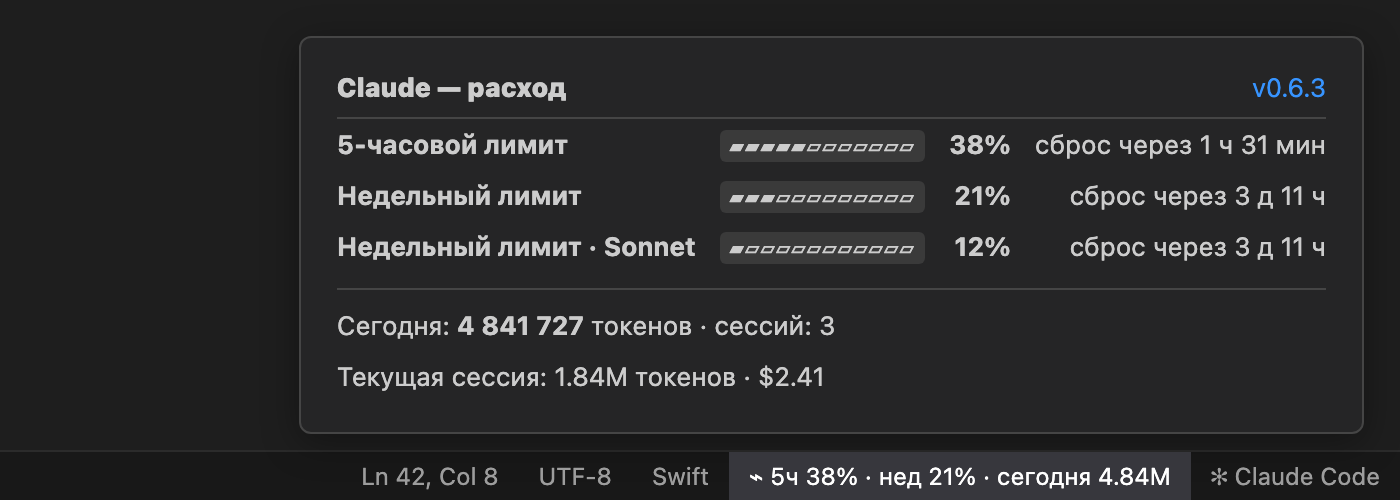
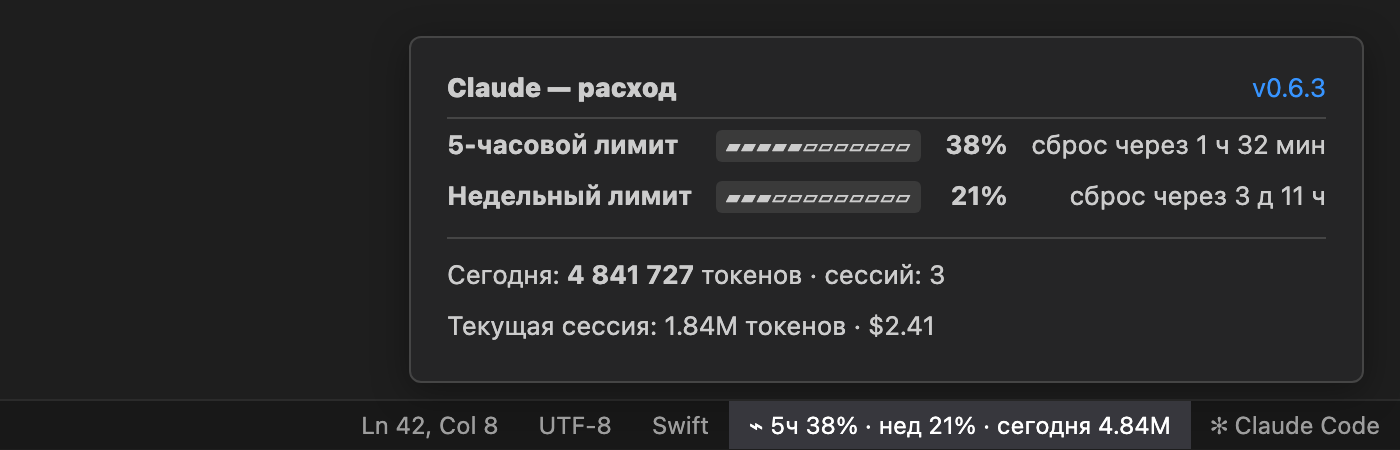
README: remove the Sonnet / Opus weekly-limit promise; screenshots without it
Claude Code hands plugins only the 5-hour and the weekly limit, so those
are the two rows shown. Docs and sample screenshots now say and show that.

diff --git a/README.md b/README.md
@@ -29,7 +29,7 @@ alerts and a pace forecast — right in the status bar of VS Code, Antigravity a
 | | |
 | --- | --- |
 | **Status bar** | `5h 38% · wk 5% · today 1.2M`; turns yellow / red at 80% / 90% (configurable) |
-| **Hover** | progress bars, time to reset, Sonnet / Opus weekly windows when your plan has them |
+| **Hover** | progress bars and the time to reset for the 5-hour and weekly limits |
 | **Menu** (click) | panel, copy a one-line summary, export CSV, refresh, settings, install / update the plugin, help |
 | **Panel** | an *All projects / this project* switch, ring gauges, 24-hour / 7-day / 30-day charts, **what the tokens are made of** (cache reads / writes, new input, output), breakdown by model and by project |
 | **Alerts** | a notification when a limit crosses the warning / critical percent, and when it resets |
@@ -101,7 +101,7 @@ Commands (Command Palette): **Claude Usage: Open Panel**, **Refresh**, **Export 
 
 - **Percentages are account-wide**, the same on every device. **Tokens are counted per machine** unless you set a sync folder.
 - Token counts include cache reads, so the numbers are large. Go by the percentages for how much of your limit is left.
-- Sonnet / Opus weekly windows and the 5-hour window only appear if your plan reports them.
+- Claude Code hands plugins the 5-hour and the weekly limit only. The separate weekly Sonnet / Opus limits that some plans have are not available to this tool, so they are not shown (the panel would show any further window automatically if Claude Code ever reports it).
 - Needs a Claude subscription that reports usage windows. On other setups the percentages show "—" and tokens still count.
 - Developed and tested on macOS. Windows is supported (home folder from `USERPROFILE`) but only covered by automated tests, not by daily use; Linux is untested. Please [open an issue](https://github.com/AndreyKilanov/claude-usage-monitor/issues) if something is off.
 
@@ -154,7 +154,7 @@ No dependencies and no build step: the extension is a single JavaScript file.
 | | |
 | --- | --- |
 | **Строка состояния** | `5ч 38% · нед 5% · сегодня 1.2M`. При 80% становится жёлтой, при 90% красной (пороги настраиваются) |
-| **Подсказка** | шкалы лимитов, время до сброса, недельные лимиты Sonnet и Opus, если они есть в вашем тарифе |
+| **Подсказка** | шкалы лимитов (5 часов и неделя) и время до сброса |
 | **Меню** (по клику) | панель, копирование краткой сводки, экспорт в CSV, обновление, настройки, установка и обновление плагина, справка |
 | **Панель** | переключатель «Все проекты / этот проект», кольца лимитов, графики за сутки, 7 и 30 дней, **состав токенов** (чтение и запись кэша, новый запрос, ответ), расход по моделям и по проектам |
 | **Оповещения** | уведомление, когда лимит достигает порога, и когда он сбрасывается |
@@ -193,7 +193,7 @@ No dependencies and no build step: the extension is a single JavaScript file.
 
 - **Проценты лимитов относятся ко всему аккаунту**, поэтому на всех устройствах они одинаковые. **Токены считаются отдельно на каждом компьютере**, пока вы не задали папку синхронизации.
 - В число токенов входит чтение кэша, и поэтому оно получается очень большим. Сколько осталось до лимита, лучше судить по процентам.
-- Недельные лимиты Sonnet и Opus появляются только в том случае, если их сообщает ваш тариф.
+- Claude Code передаёт плагинам только 5-часовой и недельный лимиты. Отдельные недельные лимиты Sonnet и Opus, которые есть в некоторых тарифах, этому инструменту недоступны, поэтому они не показываются (если Claude Code начнёт сообщать и их, панель покажет их сама).
 - Проект разрабатывался и проверялся на macOS. Windows поддерживается (домашняя папка определяется по `USERPROFILE`), но проверена в основном автотестами. Linux не проверялся. Если что-то работает неправильно, [создайте обращение](https://github.com/AndreyKilanov/claude-usage-monitor/issues).
 
 ## Если в строке состояния «нет данных»

diff --git a/CHANGELOG.md b/CHANGELOG.md
@@ -7,6 +7,7 @@
 - **Outdated-plugin banner.** The plugin now writes its own version into every data file; if the plugin on this computer is older than 0.6.3 or reports no version, the panel says so and points to *menu → Install the usage-monitor plugin*. An outdated plugin is also flagged with one line at the end of the tooltip.
 - The plugin also records the project folder name of each session.
 - The tooltip's reset column is right-aligned to sit under the version.
+- Docs: the README no longer promises the separate weekly Sonnet / Opus limits. Claude Code reports only the 5-hour and the weekly limit to plugins, so those are the two rows you get; the sample screenshots no longer show a Sonnet row either.
 - Tests: 18 plugin tests, 55 extension tests.
 
 **Update the plugin on every machine** (menu → *Install the usage-monitor plugin*), then start a new Claude session.

diff --git a/extension/README.md b/extension/README.md
@@ -20,7 +20,7 @@ alerts and a pace forecast — right in the status bar of VS Code, Antigravity a
 | | |
 | --- | --- |
 | **Status bar** | `5h 38% · wk 5% · today 1.2M`; turns yellow / red at 80% / 90% (configurable) |
-| **Hover** | progress bars, time to reset, Sonnet / Opus weekly windows when your plan has them |
+| **Hover** | progress bars and the time to reset for the 5-hour and weekly limits |
 | **Panel** (click) | ring gauges, 24-hour / 7-day / 30-day charts, breakdown by model and by project |
 | **Alerts** | a notification when a limit crosses the warning / critical percent, and when it resets |
 | **Forecast** | "at this pace the 5-hour limit runs out in 23 min" — only when it would happen before the reset |
